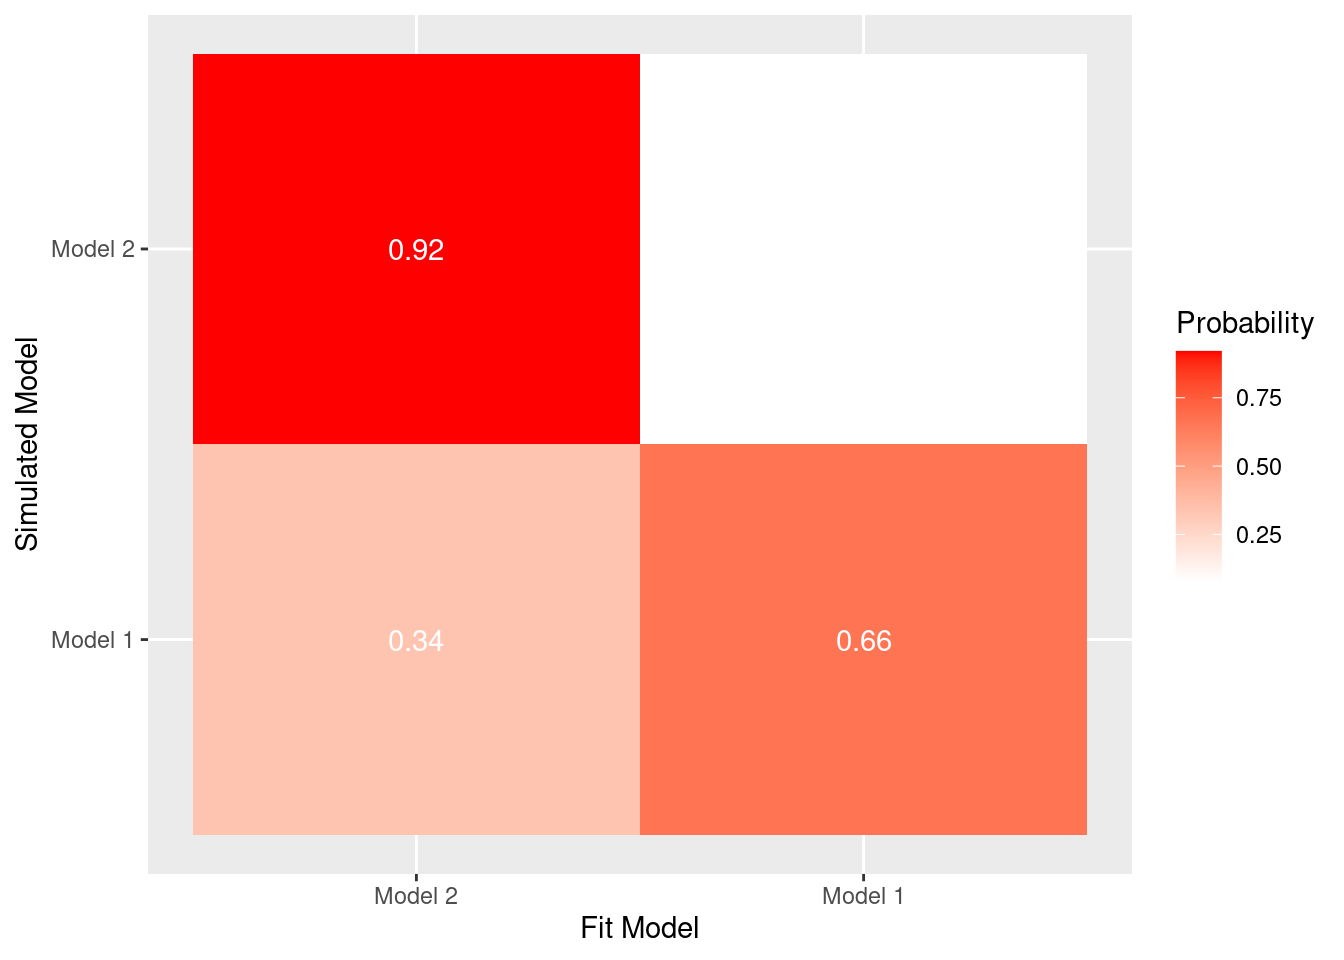
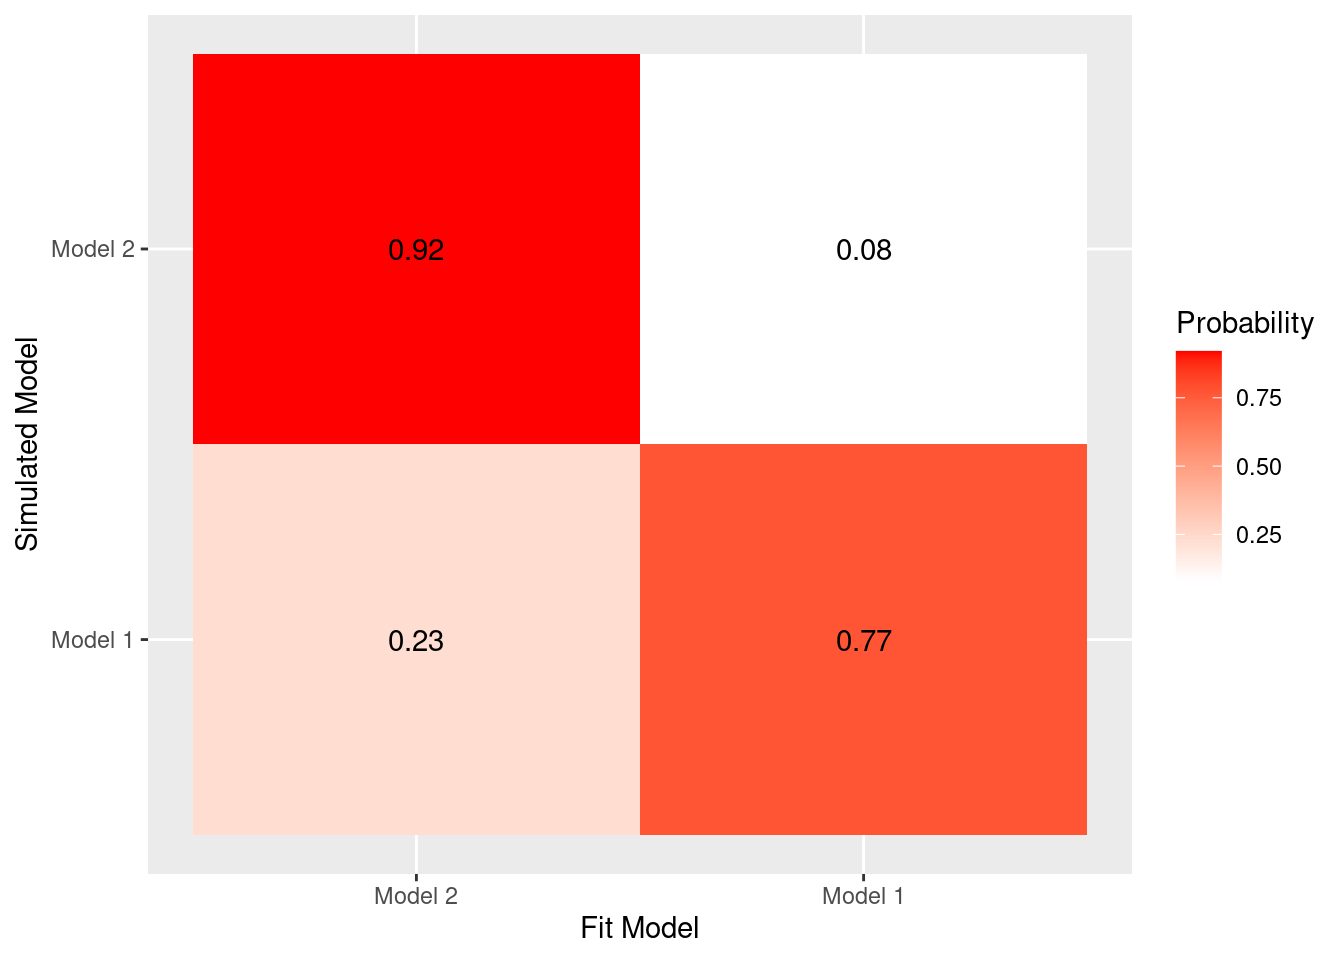
update

Changed region(s): [[0.125, 0.4375, 0.8125, 0.875], [0.2812, 0.25, 0.3438, 0.2812], [0.625, 0.25, 0.6562, 0.2812]]

diff --git a/docs/how-to-cognitive-modeling-rl3.html b/docs/how-to-cognitive-modeling-rl3.html
@@ -612,7 +612,7 @@ q_learning_prior_WBIC_mcmc &lt;- q_learning_prior_WBIC$sample(
 
 q_learning_WBIC_sample &lt;- rstan::read_stan_csv(q_learning_WBIC_mcmc$output_files())
 q_learning_prior_WBIC_sample &lt;- rstan::read_stan_csv(q_learning_prior_WBIC_mcmc$output_files())</code></pre>
-<p>予想に反して，無情報事前分布の方がWBICが低くなりました（低いほどよい）。一方，sub02では，弱情報の方がWBICが小さくなりました。個人ごとには適切なモデルや事前分布は違う可能性があるので，階層モデルを作って評価が必要も思われます。</p>
+<p>予想に反して，無情報事前分布の方がWBICが低くなりました（低いほどよい）。一方，sub02では，有情報の方がWBICが小さくなりました。個人ごとには適切なモデルや事前分布は違う可能性があるので，階層モデルを作って評価が必要も思われます。</p>
 <pre class="r"><code>WBIC_non &lt;- -mean(rowSums(rstan::extract(q_learning_WBIC_sample)$log_lik))
 WBIC_prior &lt;- -mean(rowSums(rstan::extract(q_learning_prior_WBIC_sample)$log_lik))
 paste(&quot;無情報事前分布のWBICは&quot;,WBIC_non)</code></pre>
@@ -683,7 +683,7 @@ generated quantities {
   }
 }</code></pre>
 <p>まずは，q_learning_prior_non_beta_WBIC.stanをコンパイルします。</p>
-<pre><code>q_learning_prior_non_beta_WBIC &lt;- cmdstan_model(&#39;rl/q_learning_prior_non_beta_WBIC.stan&#39;)</code></pre>
+<pre><code>q_learning_prior_non_beta_WBIC &lt;- cmdstan_model(&#39;q_learning_prior_non_beta_WBIC.stan&#39;)</code></pre>
 <p>さて，以下のコードを走らせて，αとβを仮定したモデル(Model 1)で生成されたデータをαとβを仮定するモデル(Model 1)とαだけを仮定するモデル(Model 2)でフィッティングした時に，モデルが選択される確率を計算します。以下では，100回シミュテーションデータを生成して，MCMCで推定をするのでかなり時間がかかると思います（メモリもかなり使うと予想されます）。</p>
 <pre><code>better_model1 &lt;- 0
 n_simulation &lt;- 100
@@ -778,7 +778,7 @@ model_recovery &lt;- tibble(simulated_model, fit_model, Probability)
 ggplot(model_recovery, aes(x = fit_model, y = simulated_model, fill = Probability)) +
   geom_tile() +
   scale_fill_gradient(low = &quot;white&quot;, high = &quot;red&quot;) +
-  geom_text(aes(label = round(Probability, digits = 2)), color = &quot;white&quot;)　+
+  geom_text(aes(label = round(Probability, digits = 2)), color = &quot;black&quot;)　+
   xlab(&quot;Fit Model&quot;) +
   ylab(&quot;Simulated Model&quot;)</code></pre>
 <p><img src="how-to-cognitive-modeling-rl3_files/figure-html/unnamed-chunk-9-1.png" width="672" /></p>
